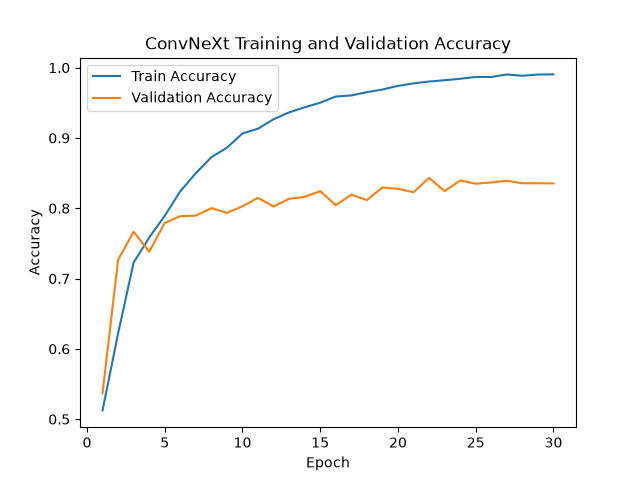
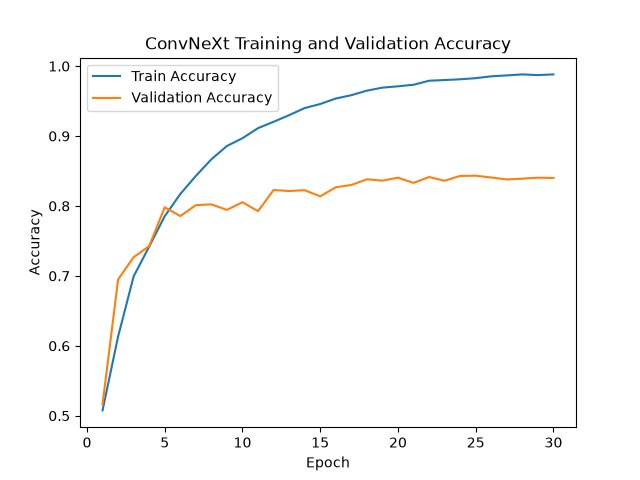
changed weight decayt and learning rate

diff --git a/recognition/ConvNeXt_s48897453/train.py b/recognition/ConvNeXt_s48897453/train.py
@@ -151,7 +151,7 @@ def train_ConvNeXt():
     model = ConvNeXt(num_classes=2).to(device)
     scaler = torch.amp.GradScaler("cuda", enabled=use_amp)
     criterion = nn.CrossEntropyLoss(label_smoothing=0.1)
-    optimizer = torch.optim.AdamW(model.parameters(), lr=3e-4, weight_decay=0.05)
+    optimizer = torch.optim.AdamW(model.parameters(), lr=3e-4, weight_decay=1e-2)
     scheduler = torch.optim.lr_scheduler.CosineAnnealingLR(optimizer, T_max=30)
 
     num_epochs = 30
